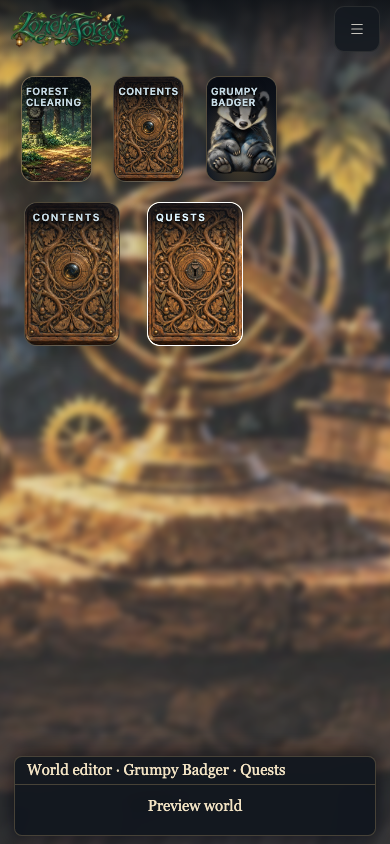
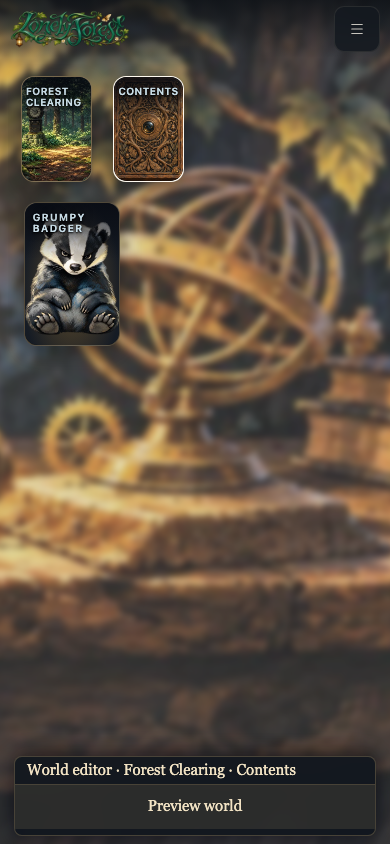
Keep small authoring trees centred and compact

diff --git a/v2/card-game/style.css b/v2/card-game/style.css
@@ -1078,11 +1078,11 @@ body:has(#settings-screen[data-layout="tree"][open]) .settings-scene {
   --card-height: 180px;
   --fan-overlap: 0px;
   display: grid;
-  grid-template-columns: repeat(var(--tree-columns), minmax(124px, 1fr));
+  grid-template-columns: repeat(var(--tree-columns), minmax(124px, 156px));
   grid-auto-rows: max-content;
   gap: 28px 12px;
   align-content: start;
-  justify-content: start;
+  justify-content: safe center;
   height: 100%;
   margin: 0;
   padding: 14px 10px;
